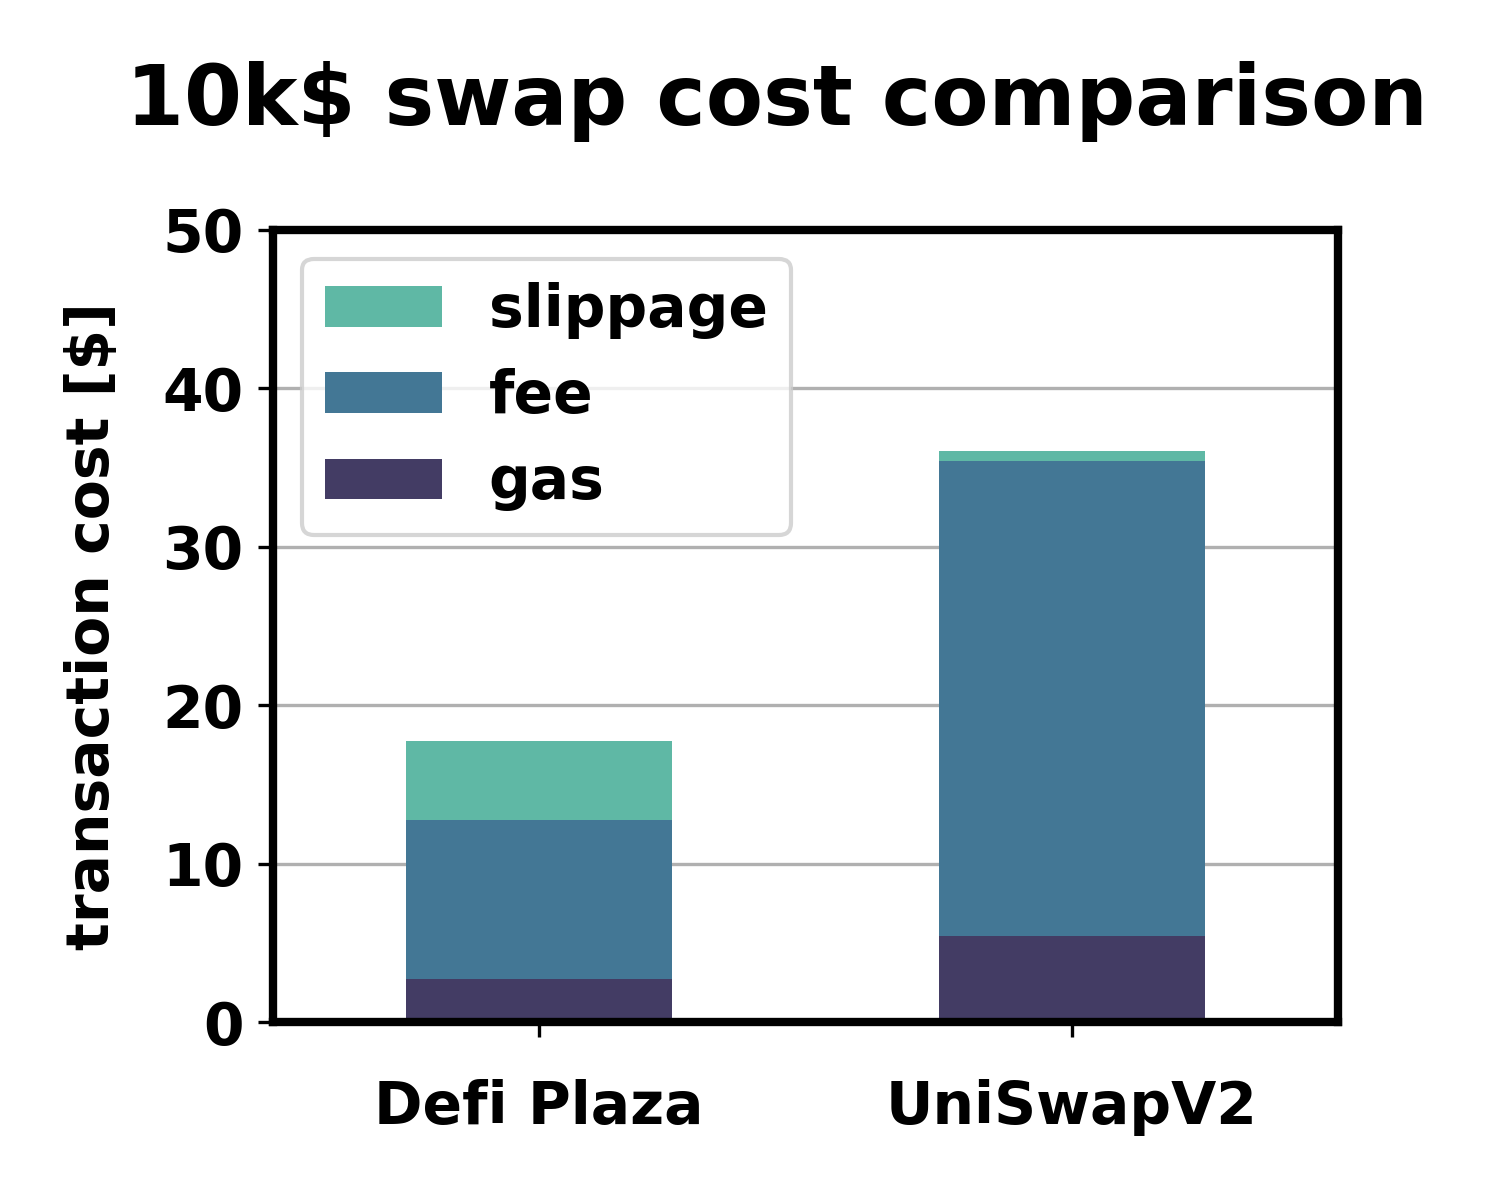
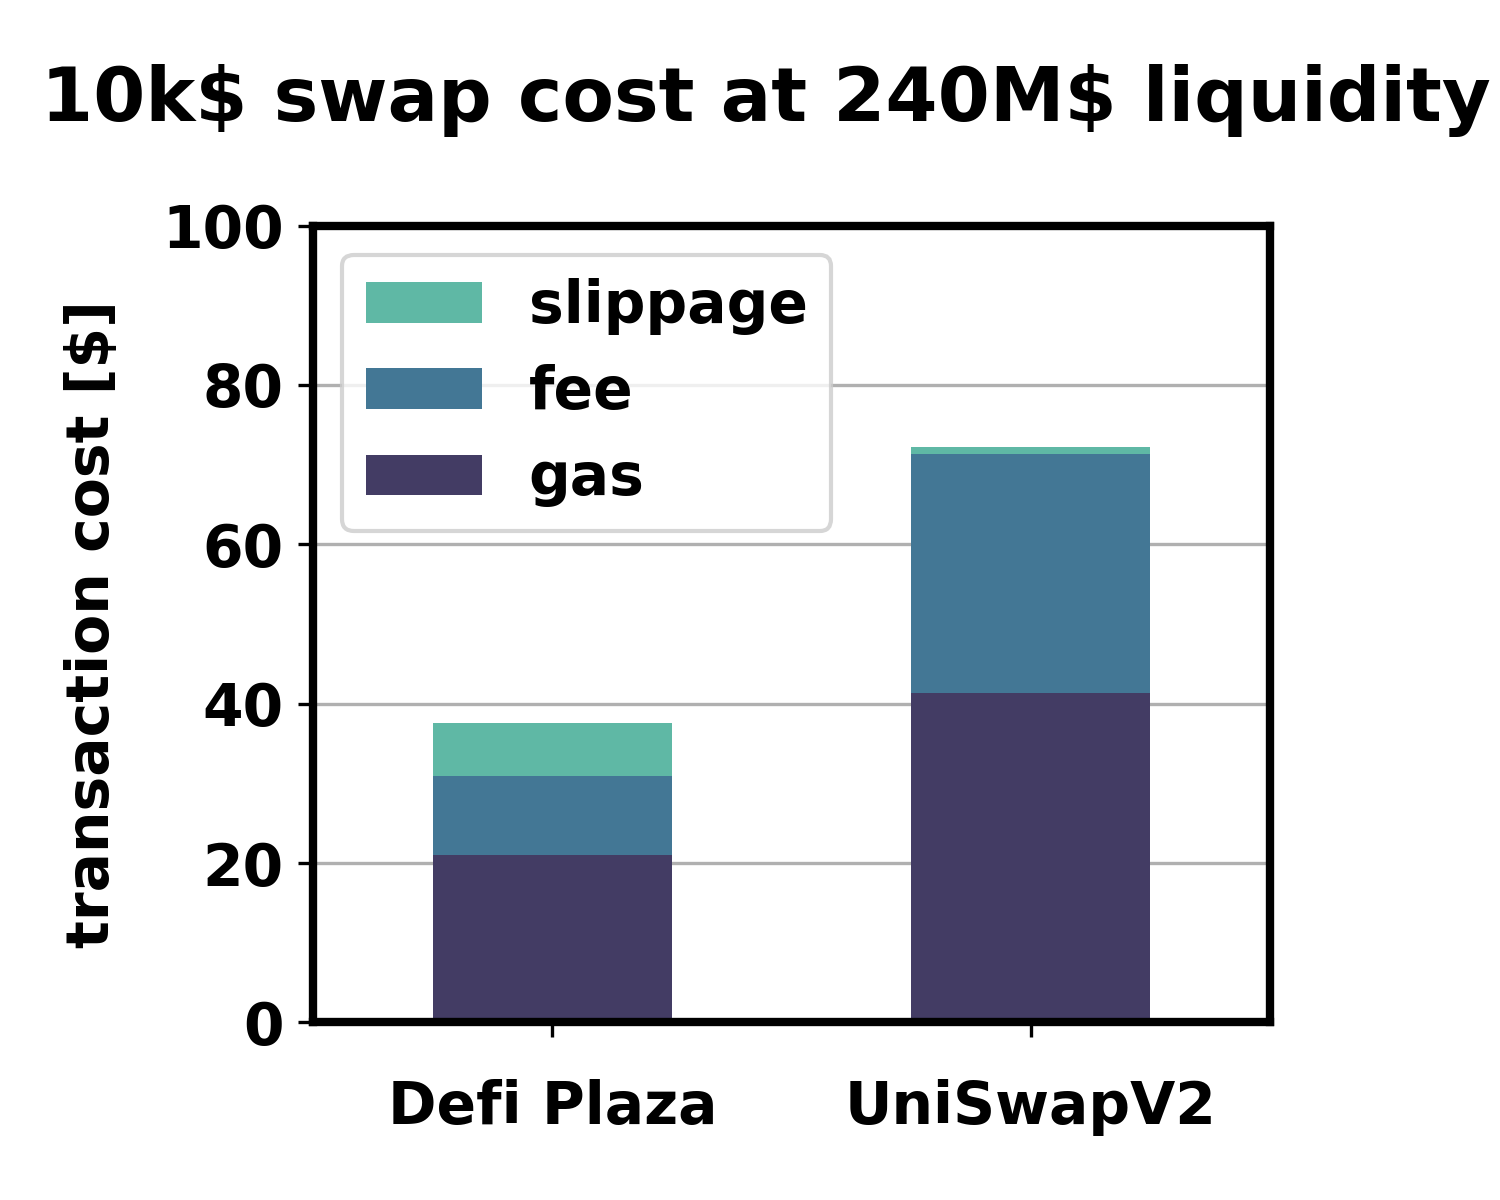
Updated script for Medium article graph

diff --git a/graphs/swapCost.py b/graphs/swapCost.py
@@ -13,11 +13,14 @@ matplotlib.rcParams['axes.grid'] = True
 matplotlib.rcParams['font.weight'] = 'bold'
 matplotlib.rcParams['font.size'] = 14
 
-
+gasPrice = 100e9
+ethPrice = 3500
 size = 10000
-gas = {'Defi Plaza': 59844 * 20e9 * 2300 / 1e18, 'UniSwapV2': 118150 * 20e9 * 2300 / 1e18}
+liq = 240e6
+
+gas = {'Defi Plaza': 59844 * gasPrice * ethPrice / 1e18, 'UniSwapV2': 118150 * gasPrice * ethPrice / 1e18}
 fee = {'Defi Plaza': size * 0.001, 'UniSwapV2': size * 0.003}
-slippage = {'Defi Plaza': size**2 / 20e6, 'UniSwapV2': size**2 / 160e6}
+slippage = {'Defi Plaza': size**2 / (liq/16), 'UniSwapV2': size**2 / (liq/2)}
 cost = pd.DataFrame({'gas': gas, 'fee': fee, 'slippage': slippage})
 
 
@@ -29,9 +32,9 @@ b2 = sns.barplot(x=cost.index, y=cost[['gas','fee']].sum(axis=1), data=cost, col
 b3 = sns.barplot(x=cost.index, y=cost['gas'], data=cost, color=colors[64], label='gas')
 ax.tick_params(axis='x', which='major', pad=10)
 ax.set_axisbelow(True)
-ax.set_ylim(0,50)
+ax.set_ylim(0,100)
 ax.set_ylabel('transaction cost [$]', labelpad=10)
-plt.title('10k$ swap cost comparison  ', pad=25, fontsize=20)
+plt.title('10k\$ swap cost at 240M\$ liquidity  ', pad=25, fontsize=18)
 ax.legend()
 barwidth = 0.5
 for bar in ax.patches:
@@ -43,4 +46,4 @@ for bar in ax.patches:
 
 
 plt.tight_layout()
-plt.savefig('swapCost.png', dpi=300)
+plt.savefig('swapCost.png', bbox='tight', dpi=300)
